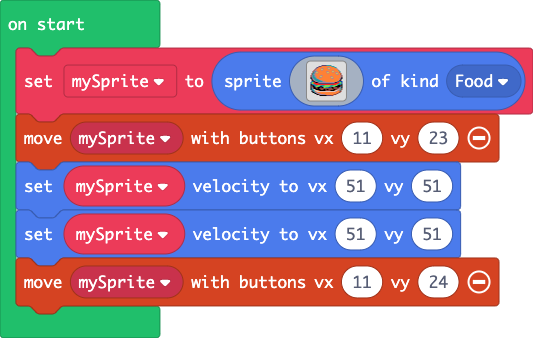
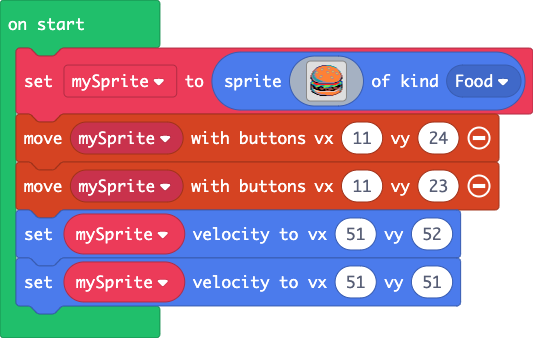
Update main.blocks, main.ts

diff --git a/main.ts b/main.ts
@@ -32,7 +32,7 @@ f 6 6 d d f f f f f e e e f f e f f e e e e e f f e e d b 4 6 e
 . . . . . . . . . f f f f f f f c c c c c e e . . . . . . . . . 
 . . . . . . . . . . . . . . . . . . . . . . . . . . . . . . . . 
 `, SpriteKind.Food)
-controller.moveSprite(mySprite, 11, 23)
-mySprite.setVelocity(51, 51)
-mySprite.setVelocity(51, 51)
 controller.moveSprite(mySprite, 11, 24)
+controller.moveSprite(mySprite, 11, 23)
+mySprite.setVelocity(51, 52)
+mySprite.setVelocity(51, 51)
